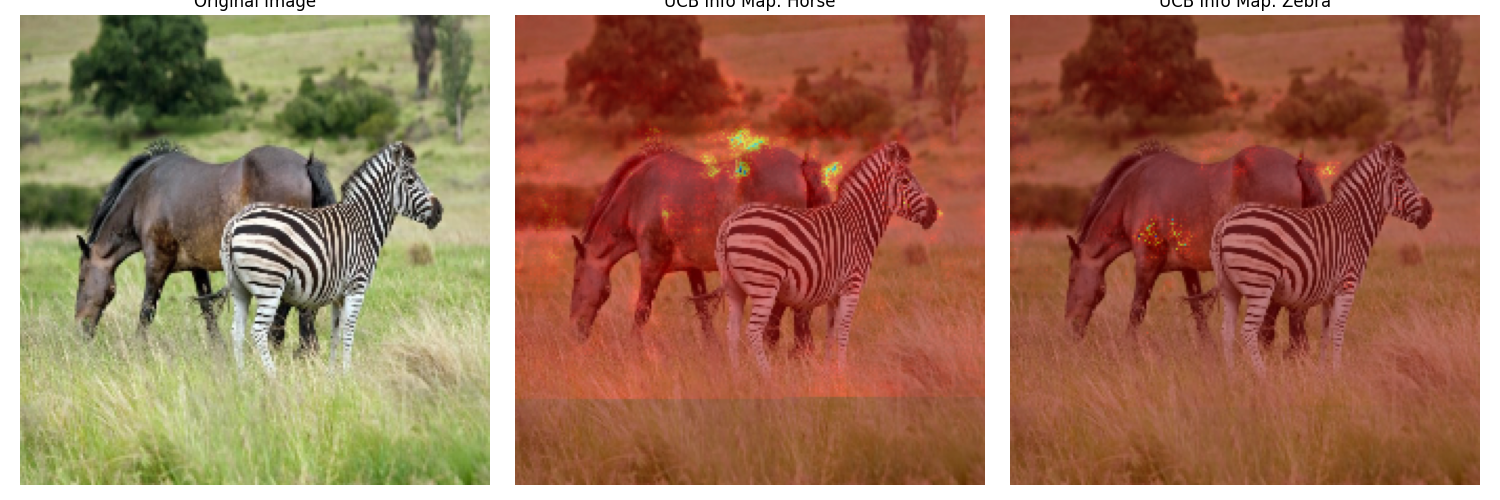
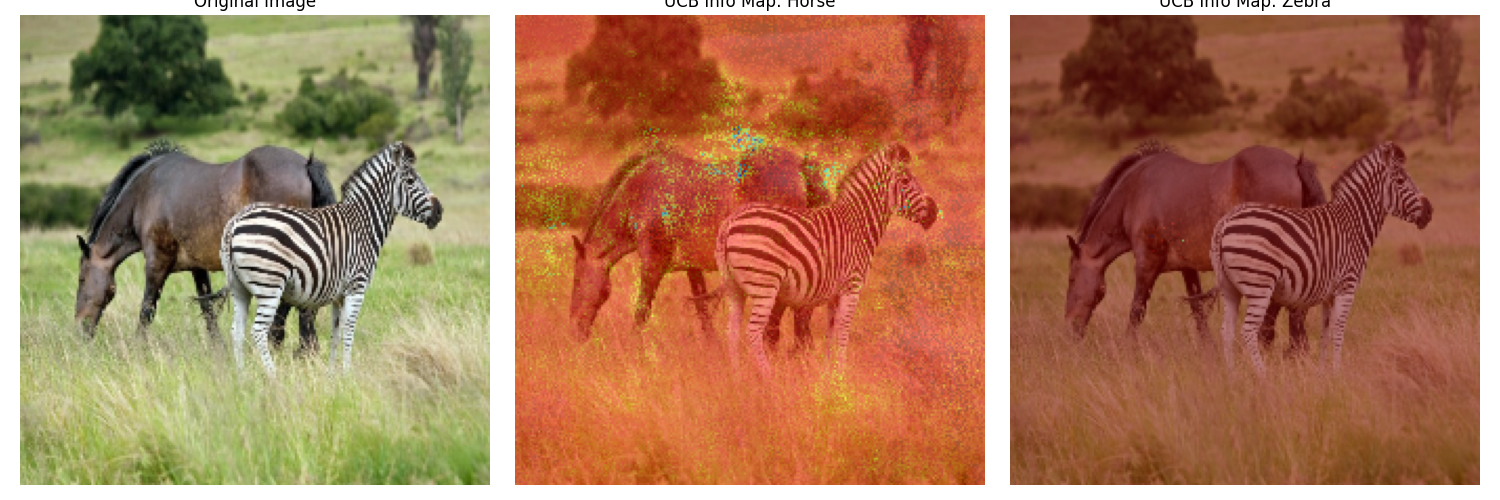
changed config

diff --git a/ucb.py b/ucb.py
@@ -498,7 +498,7 @@ def main():
         batch_size_for_perturbations=64,
         n_init=2,
         csv_path="ucb_log.csv",
-        calculate=True
+        calculate=False
     )
 
     IMAGE_PATH = "images2explain/Horse_Zebra.png"
@@ -514,7 +514,7 @@ def main():
         batch_size_for_perturbations=64,
         n_init=1,
         csv_path="ucb_log.csv",
-        calculate=True
+        calculate=False
     )
 
 if __name__ == "__main__":
